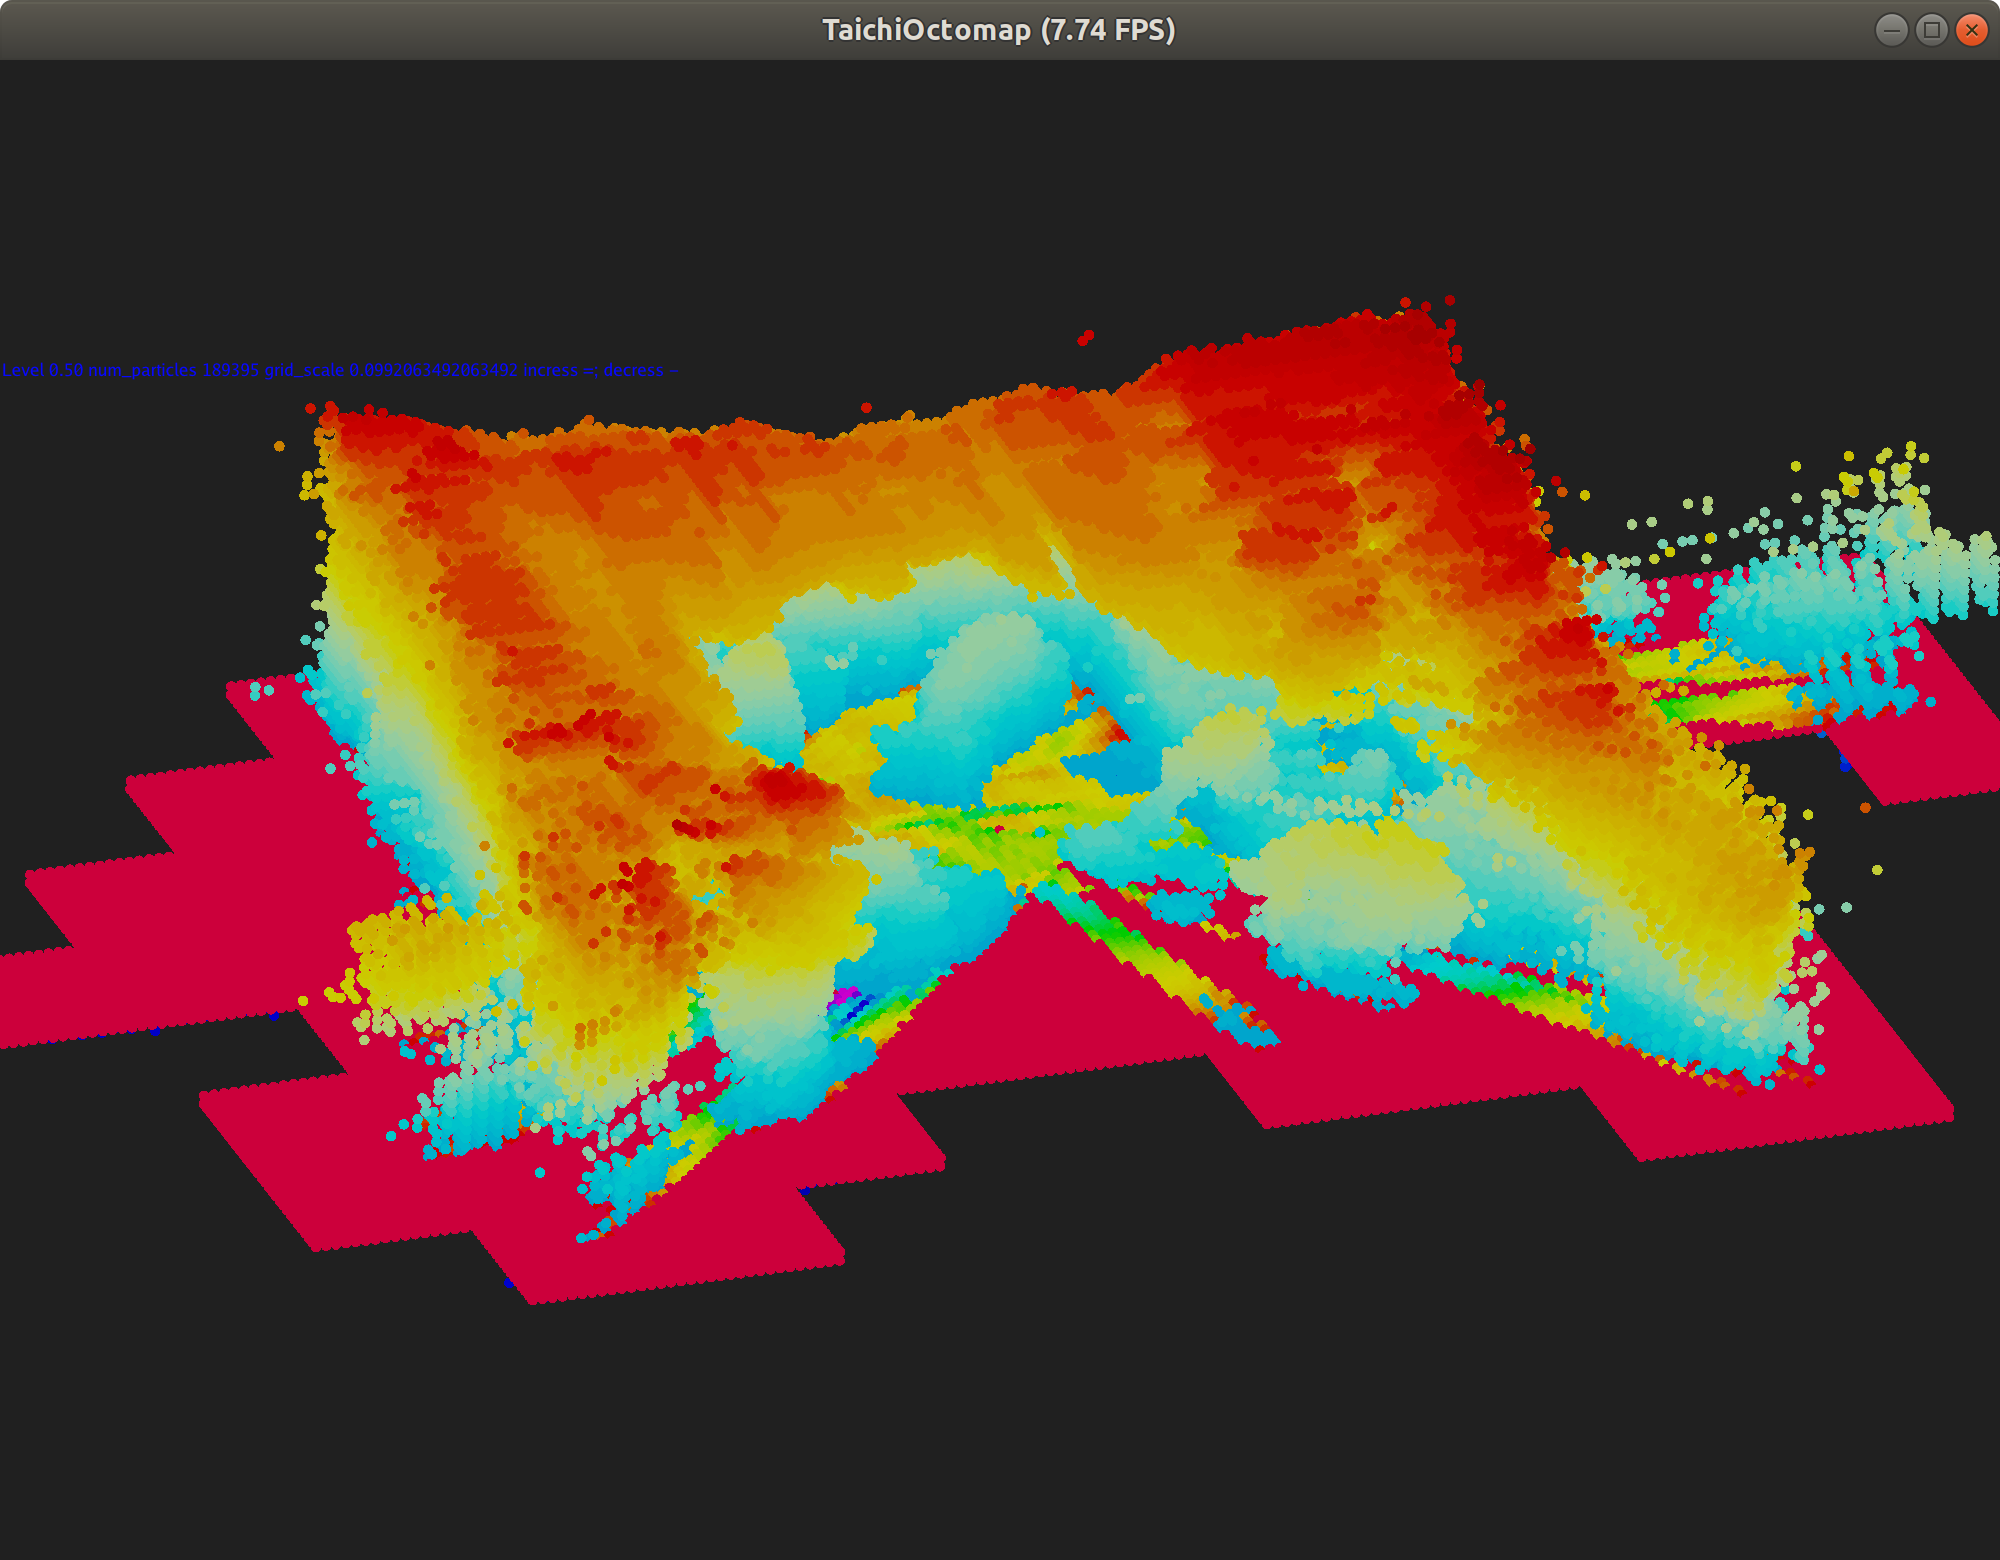
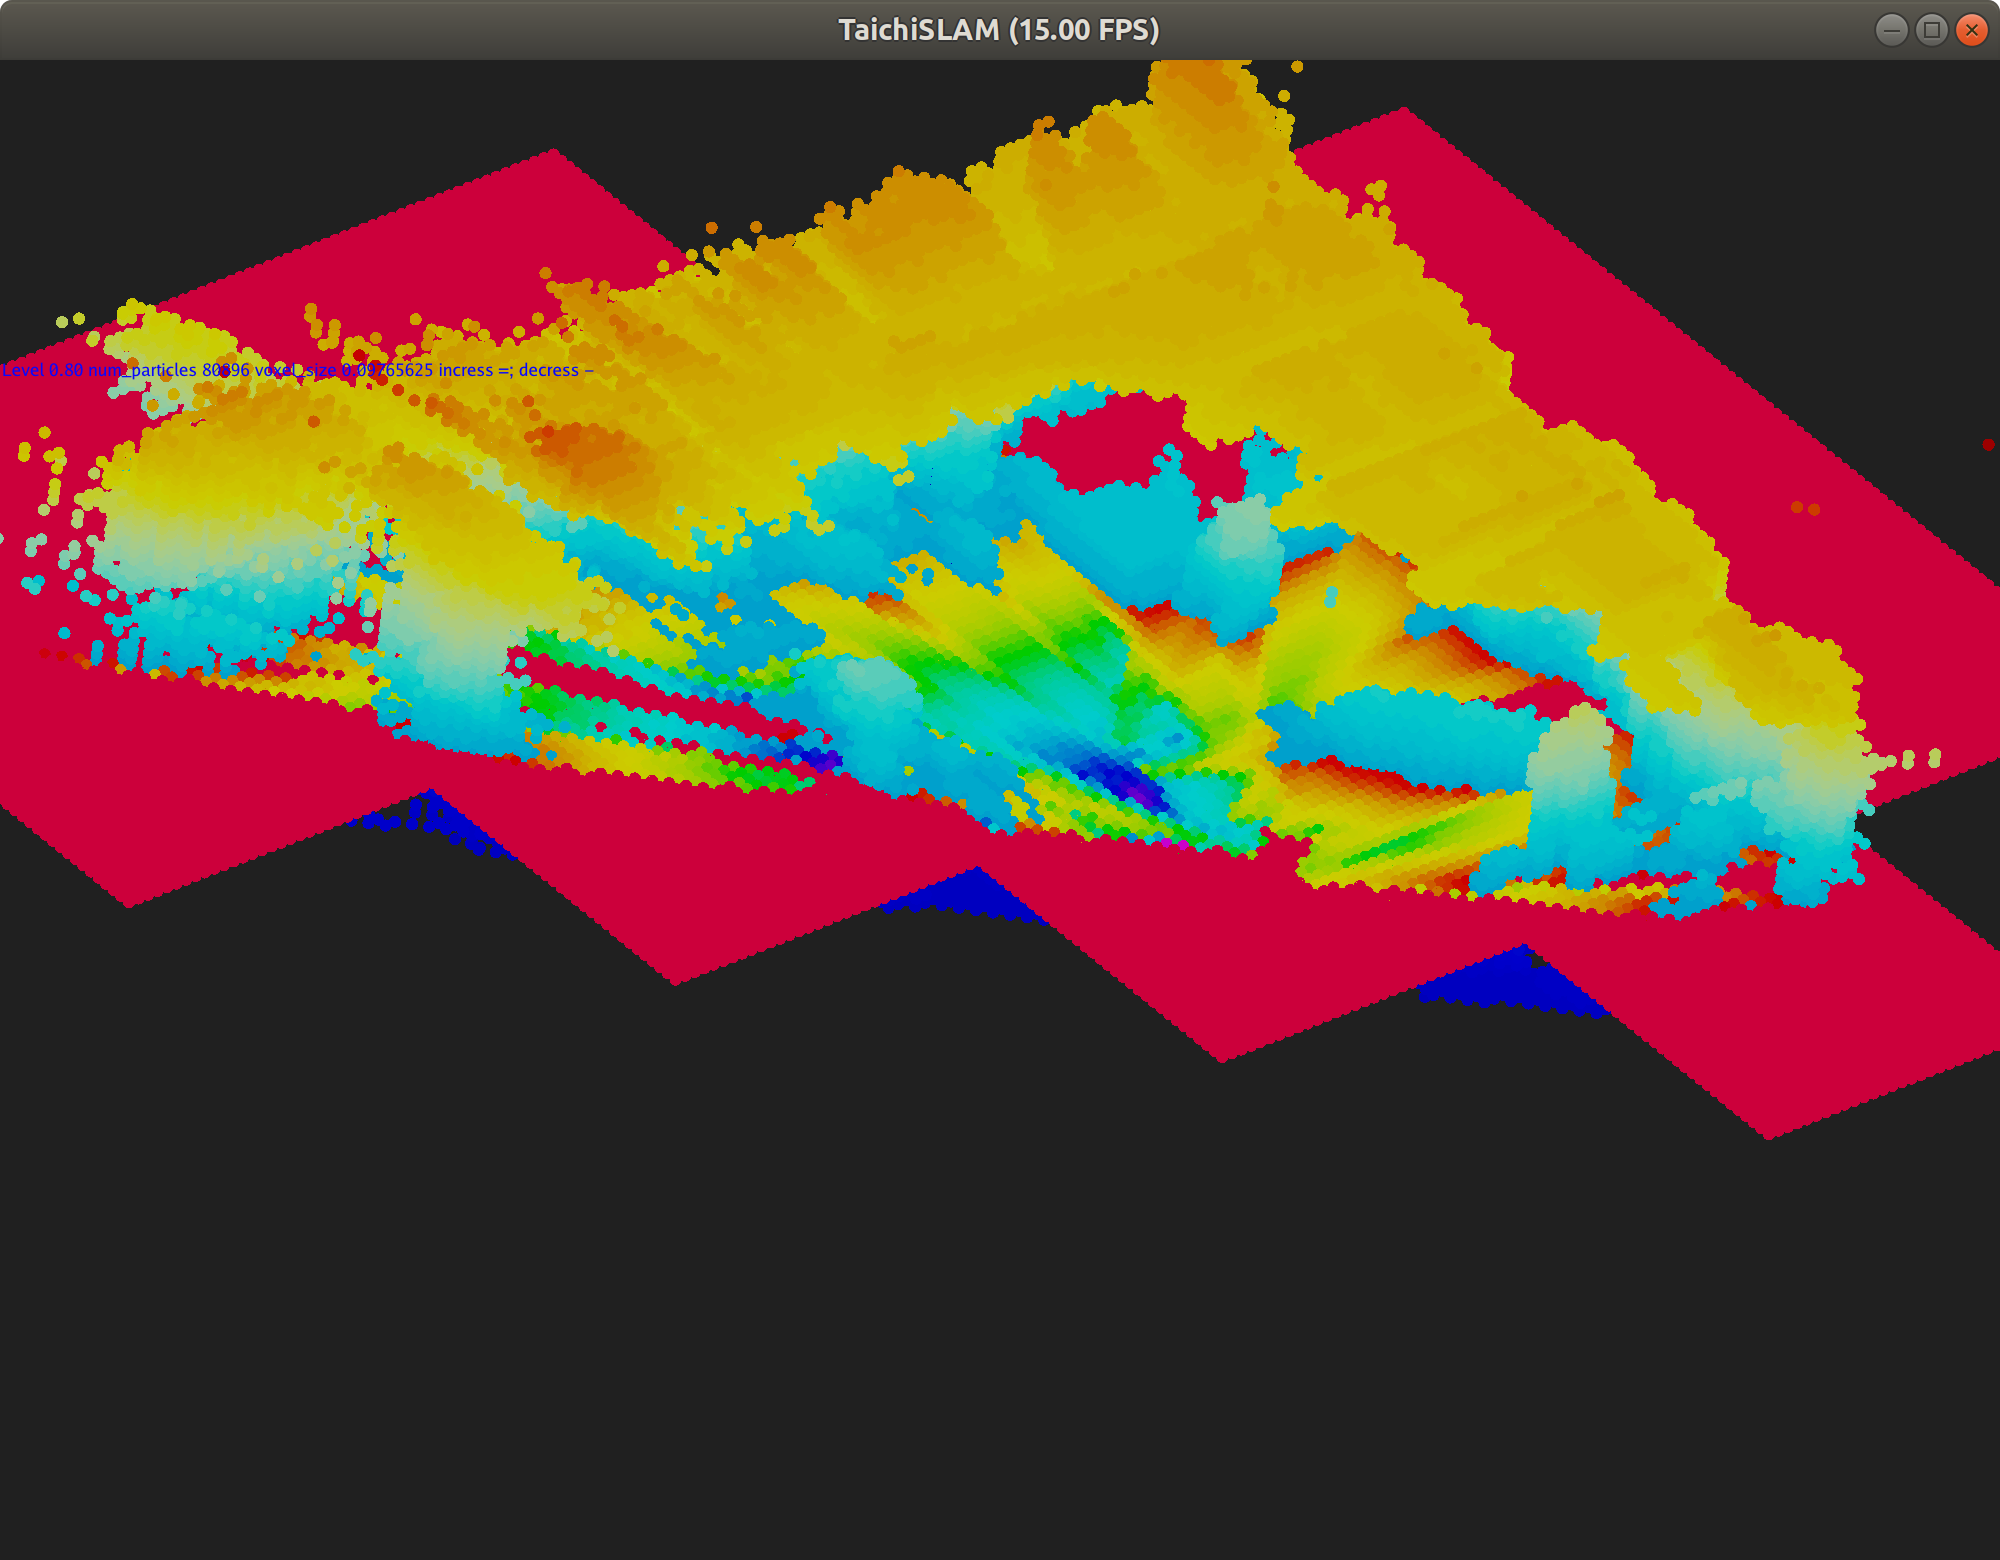
Update docs and control

diff --git a/taichi_slam/mapping/taichi_octomap.py b/taichi_slam/mapping/taichi_octomap.py
@@ -115,17 +115,7 @@ class Octomap(Basemap):
         return self.export_x.to_numpy(), self.export_color.to_numpy()
 
     def handle_render(self, scene, gui, pars, level, substeps = 3, pars_sdf=None):
-        for e in gui.get_events(ti.GUI.PRESS):
-            if e.key in [ti.GUI.ESCAPE, ti.GUI.EXIT]:
-                exit()
-            elif e.key == "-":
-                level += 1
-                if level == self.Rxy:
-                    level = self.Rxy - 1
-            elif e.key == "=":
-                level -= 1
-                if level < 0:
-                    level = 0
+
         t_v2p = time.time()
         self.get_voxel_to_particles(level)
         pos_, color_ = self.get_output_particles()
@@ -135,6 +125,18 @@ class Octomap(Basemap):
         self.render_occupy_map_to_particles(pars, pos_, color_/255.0, self.num_export_particles[None], cur_grid_size)
 
         for i in range(substeps):
+            for e in gui.get_events(ti.GUI.RELEASE):
+                if e.key in [ti.GUI.ESCAPE, ti.GUI.EXIT]:
+                    exit()
+                elif e.key == "[":
+                    level += 1
+                    if level == self.Rxy:
+                        level = self.Rxy - 1
+                elif e.key == "]":
+                    level -= 1
+                    if level < 0:
+                        level = 0
+                        
             scene.input(gui)
             scene.render()
             gui.set_image(scene.img)

diff --git a/taichi_slam/mapping/dense_esdf.py b/taichi_slam/mapping/dense_esdf.py
@@ -218,14 +218,6 @@ class DenseESDF(Basemap):
         pars.set_particle_colors(colors)
 
     def handle_render(self, scene, gui, pars1, level, substeps = 3, pars_sdf=None):
-        for e in gui.get_events(ti.GUI.PRESS):
-            if e.key in [ti.GUI.ESCAPE, ti.GUI.EXIT]:
-                exit()
-            elif e.key == "-":
-                level -= 0.5
-            elif e.key == "=":
-                level += 0.5
-
         t_v2p = time.time()
         self.get_occupy_to_particles(level)
         self.get_TSDF_to_particles(level)
@@ -237,6 +229,14 @@ class DenseESDF(Basemap):
         self.render_sdf_to_particles(pars_sdf, tsdf_pos, tsdf, self.num_export_TSDF_particles[None], self.voxel_size_xy)
 
         for i in range(substeps):
+            for e in gui.get_events(ti.GUI.RELEASE):
+                if e.key in [ti.GUI.ESCAPE, ti.GUI.EXIT]:
+                    exit()
+                elif e.key == "[":
+                    level -= 0.2
+                elif e.key == "]":
+                    level += 0.2
+
             scene.input(gui)
             scene.render()
             gui.set_image(scene.img)

diff --git a/examples/TaichiSLAM_demo.py b/examples/TaichiSLAM_demo.py
@@ -17,7 +17,7 @@ disp_in_rviz = False
 
 def rendering(mapping):
     global level
-    level, t_v2p = mapping.handle_render(scene, gui, pars1, level, pars_sdf=pars2, substeps = 3)
+    level, t_v2p = mapping.handle_render(scene, gui, pars1, level, pars_sdf=pars2, substeps = 1)
     return t_v2p
 
 def taichimapping_pcl_callback(mapping, cur_trans, msg, enable_rendering):
@@ -142,7 +142,7 @@ if __name__ == '__main__':
             voxel_size=args.voxel_size,
             block_size=args.blk)
 
-    scene.init_control(gui, radius=10, theta=-math.pi/4,center=(0, 0, 0), is_ortho=True)
+    scene.init_control(gui, radius=6, theta=-math.pi/4,center=(0, 0, 0), is_ortho=True)
     
     if disp_in_rviz:
         rospy.init_node("Taichimapping", disable_signals=False)

diff --git a/README.md b/README.md
@@ -15,6 +15,7 @@ Note: This project is only backend of 3d dense mapping. For full SLAM features i
 Octomap/Occupy map at different accuacy:
 <img src="./docs/octomap1.png" alt="drawing" style="width:400px;"/>
 <img src="./docs/octomap2.png" alt="drawing" style="width:400px;"/>
+<img src="./docs/octomap3.png" alt="drawing" style="width:400px;"/>
 
 Truncated signed distance function (TSDF):
 <img src="./docs/TSDF.png" alt="drawing" style="width:400px;"/>
